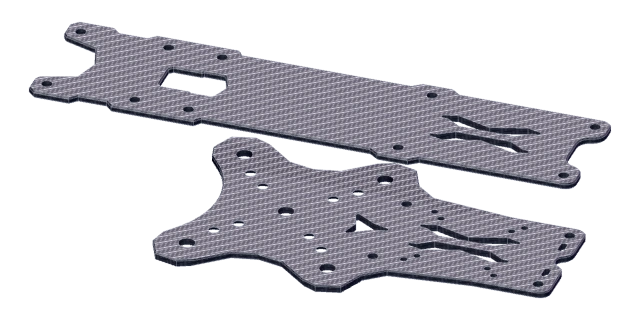
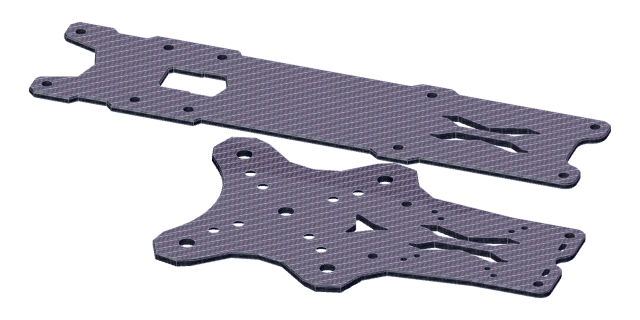
Soften the carbon plate reflections

Changed region(s): [[0.0312, 0.0625, 0.9688, 0.9062]]

diff --git a/index.html b/index.html
@@ -144,12 +144,12 @@
             <p>Each arm widens at the root, where the arm lock holds it in the frame.</p>
           </article>
           <article>
-            <img src="assets/parts/carbon-bottom.webp?v=twill-gloss" alt="" width="640" height="320" loading="lazy" decoding="async">
+            <img src="assets/parts/carbon-bottom.webp?v=twill-matched" alt="" width="640" height="320" loading="lazy" decoding="async">
             <h3>3 mm bottom plate</h3>
             <p>The bottom plate ties the arm roots together and extends forward beneath the camera cage.</p>
           </article>
           <article>
-            <img src="assets/parts/carbon-deck.webp?v=twill-gloss" alt="" width="640" height="320" loading="lazy" decoding="async">
+            <img src="assets/parts/carbon-deck.webp?v=twill-matched" alt="" width="640" height="320" loading="lazy" decoding="async">
             <h3>2 mm top and mid plates</h3>
             <p>The slotted top plate carries the battery. Beneath it, the mid plate clamps the arms against the bottom plate.</p>
           </article>
